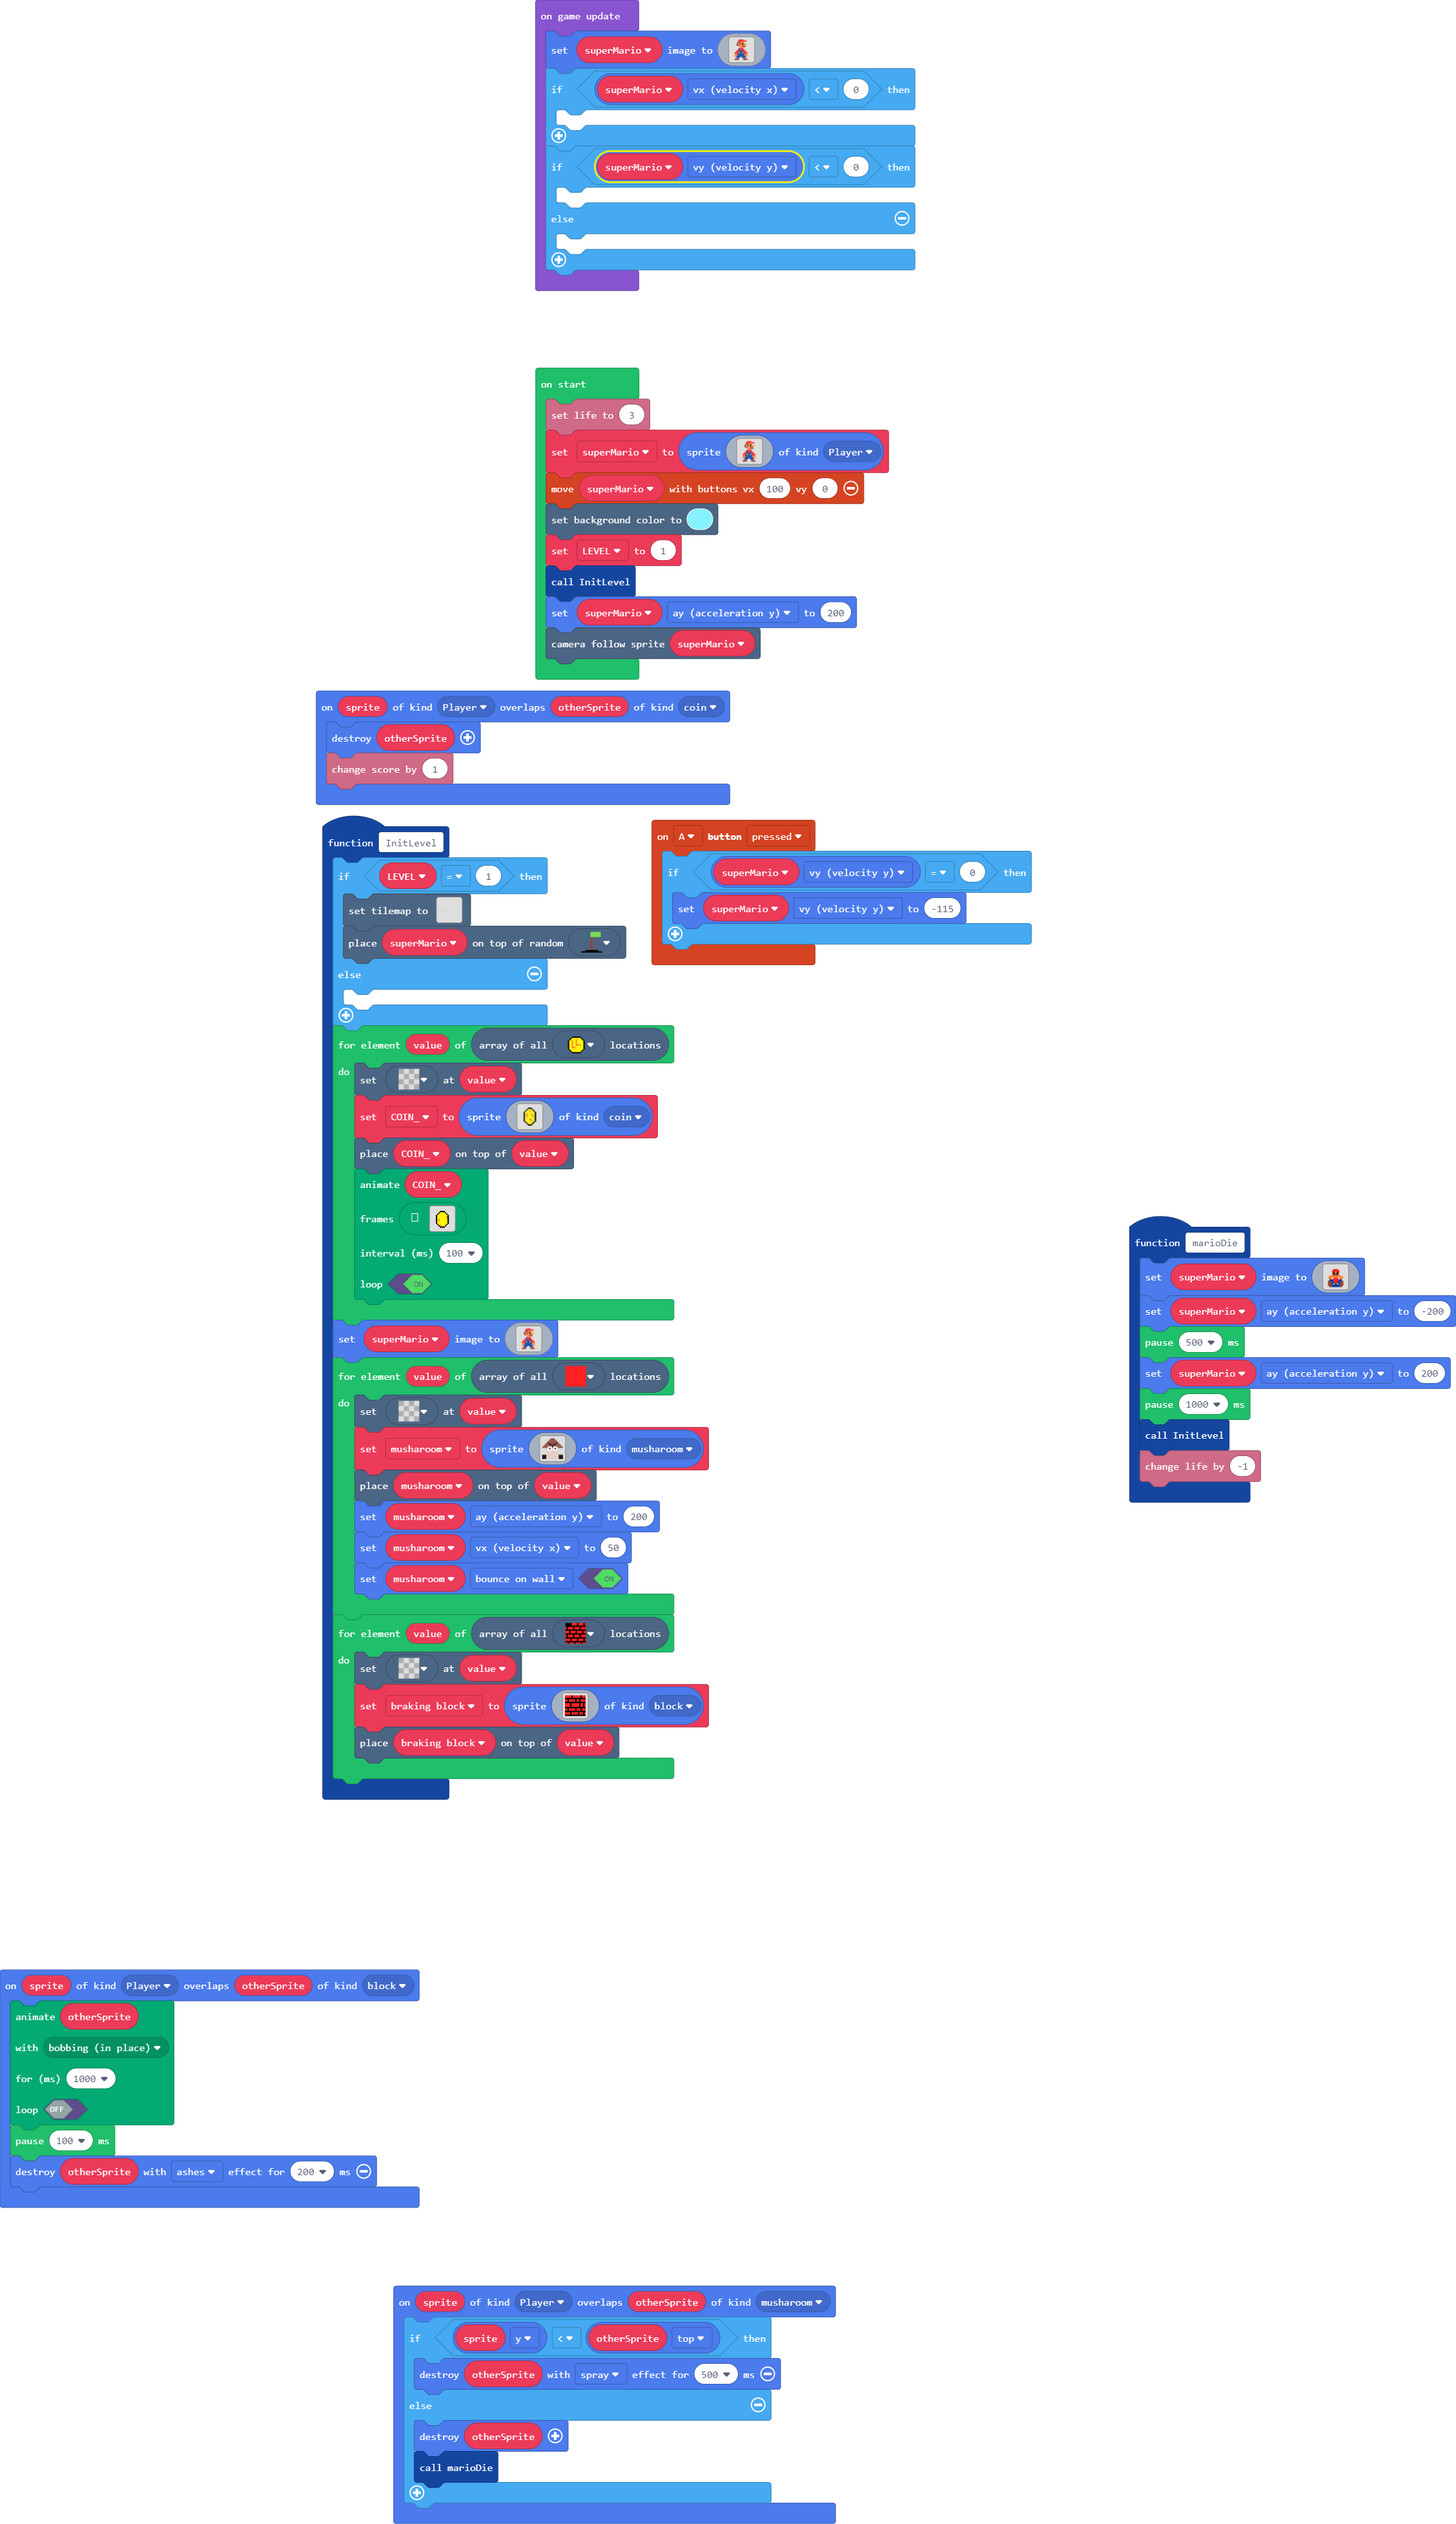
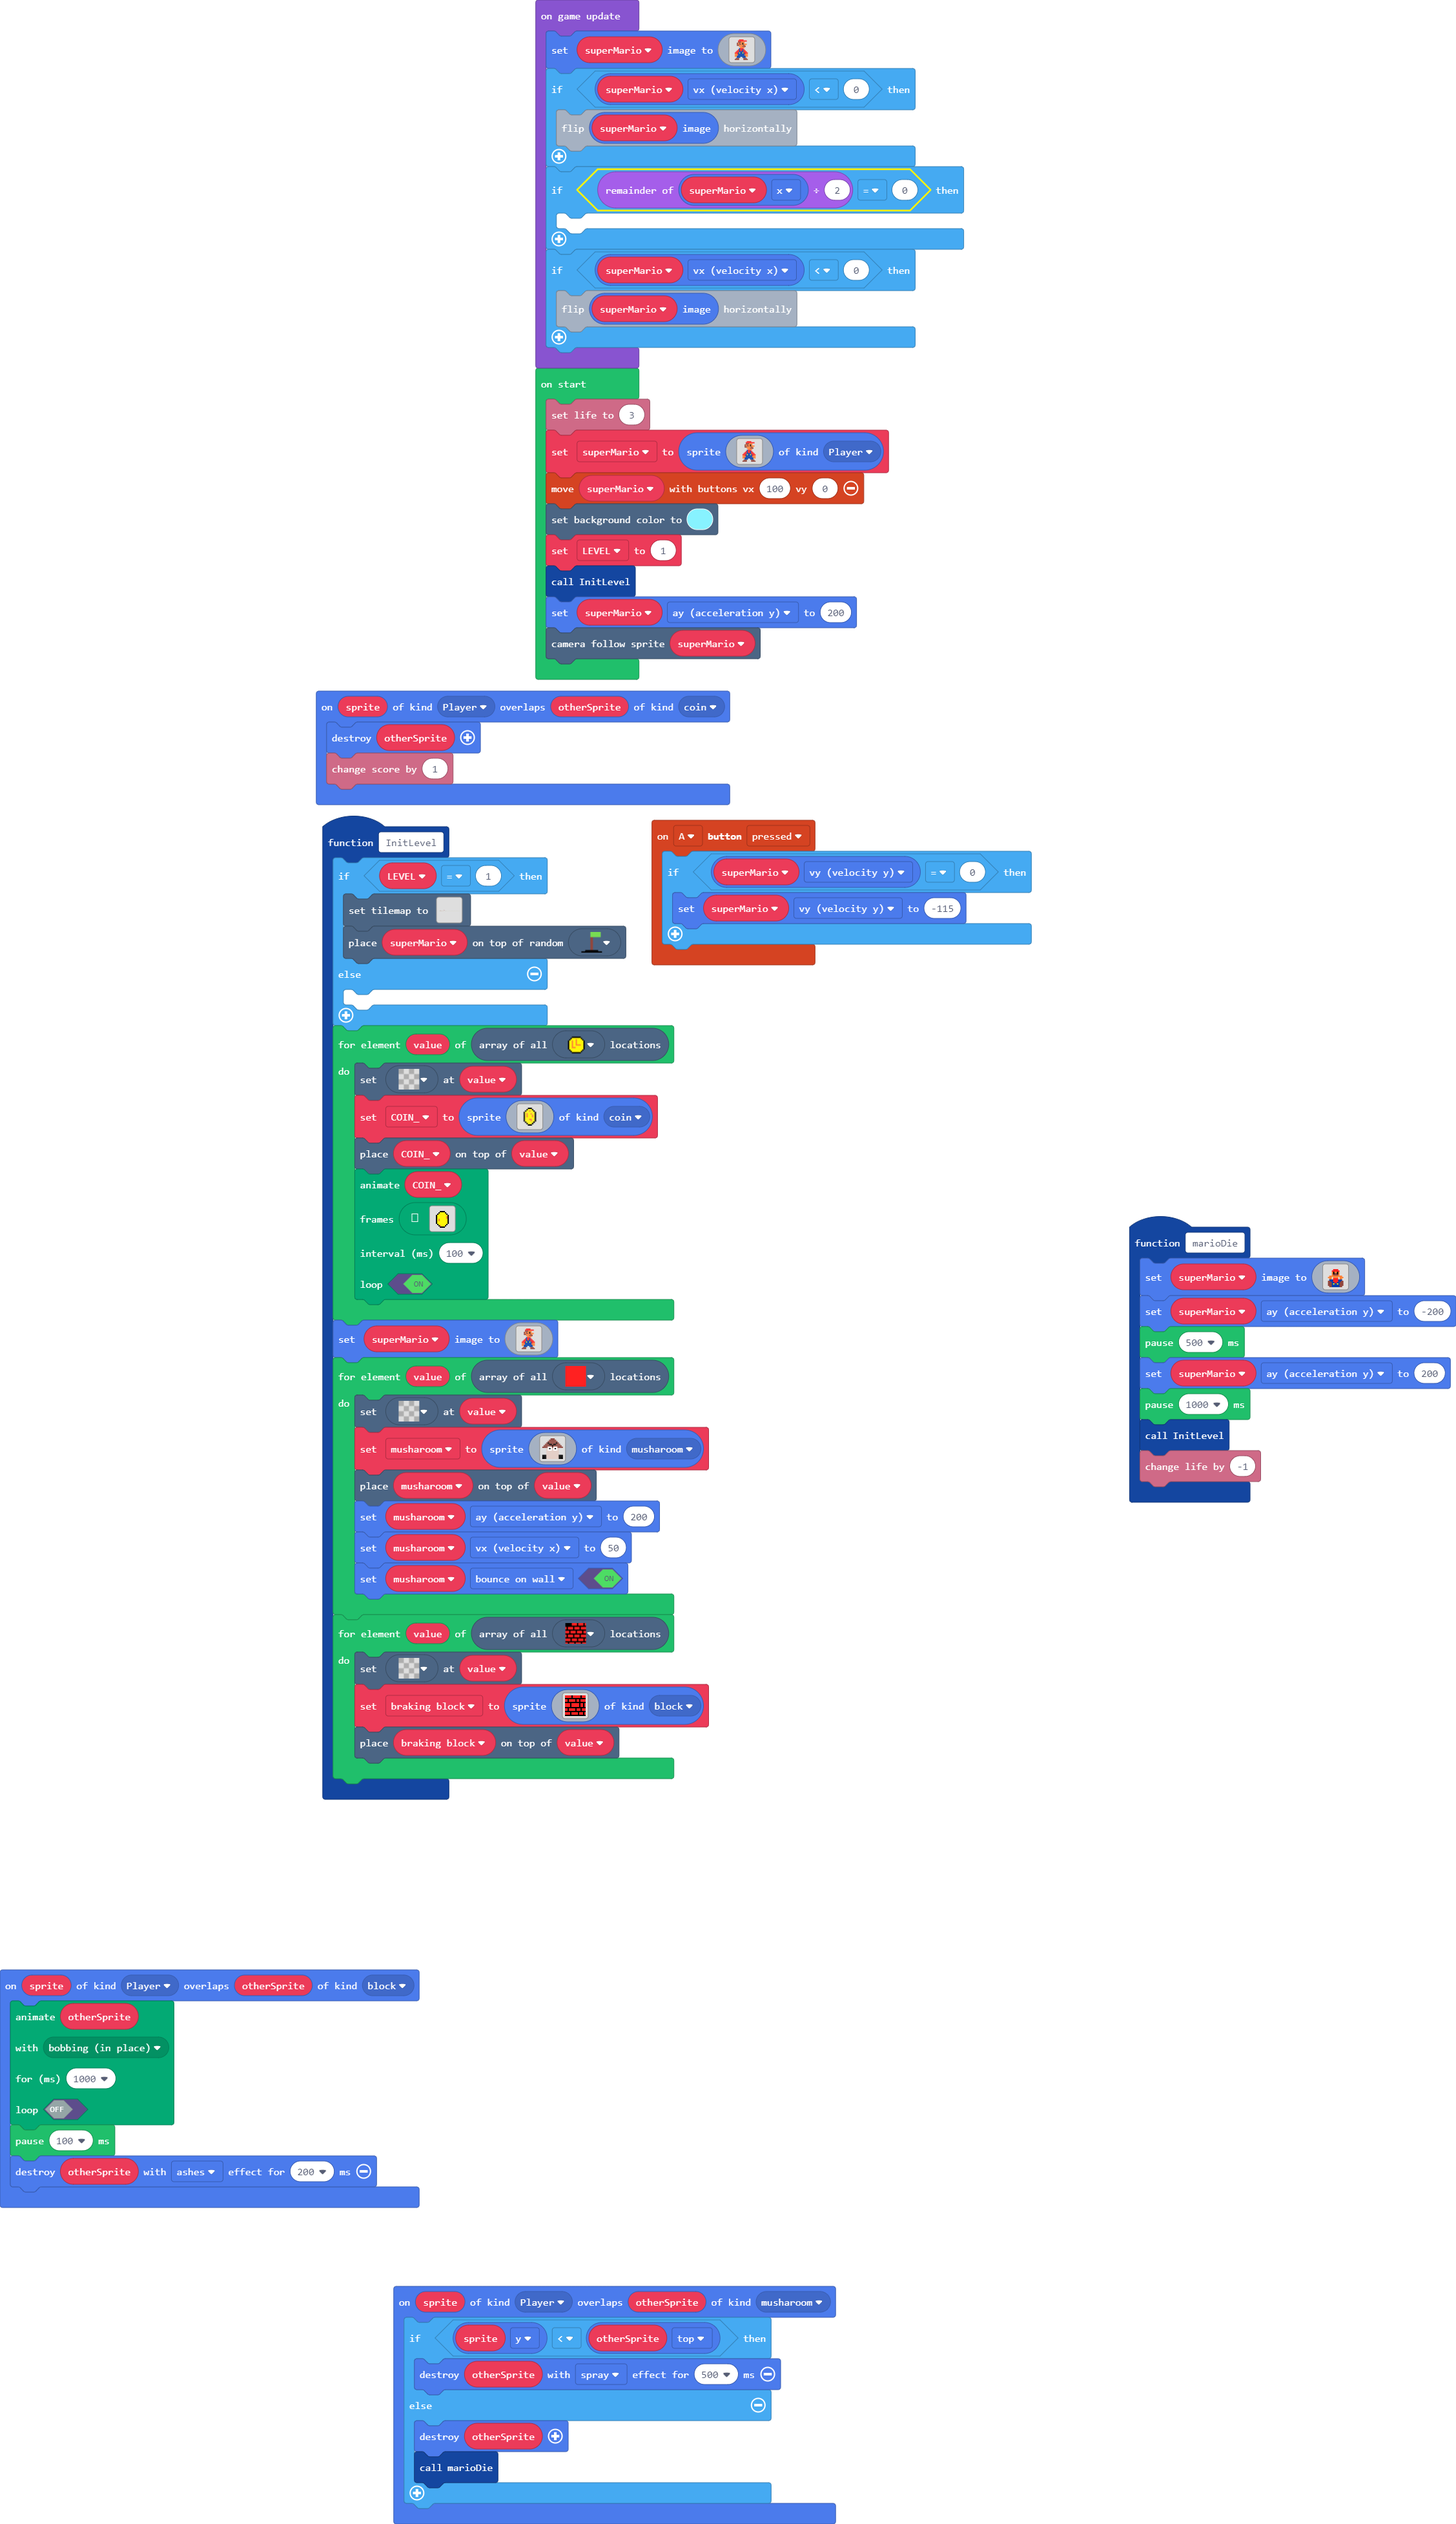
continued

diff --git a/main.ts b/main.ts
@@ -514,11 +514,12 @@ game.onUpdate(function () {
 e e e e . . . . e e e e 
 `)
     if (superMario.vx < 0) {
+        superMario.image.flipX()
+    }
+    if (superMario.x % 2 == 0) {
     	
     }
-    if (superMario.vy < 0) {
-    	
-    } else {
-    	
+    if (superMario.vx < 0) {
+        superMario.image.flipX()
     }
 })
